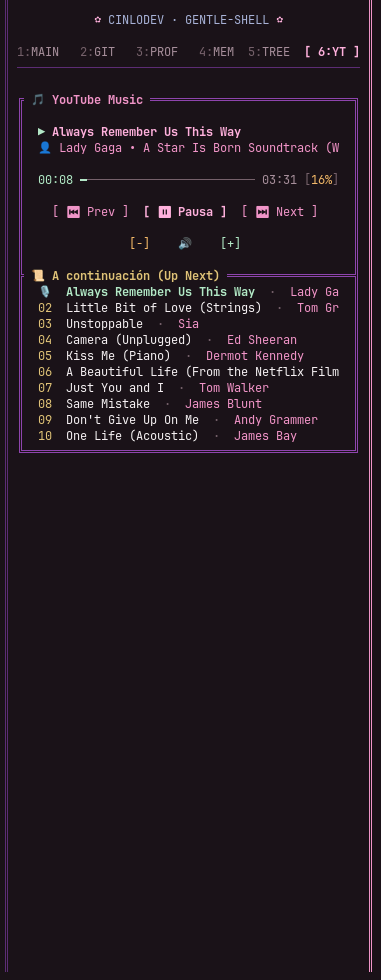
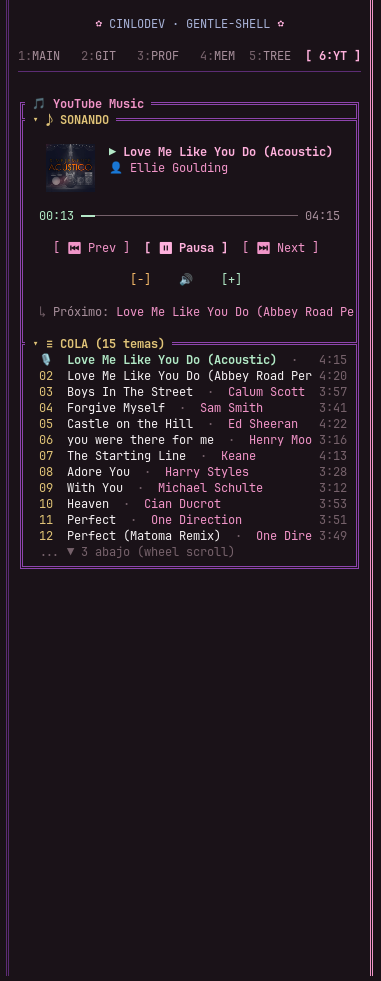
fix(youtube): remove volume badge from scrubber line and update player preview image

diff --git a/src/youtube/youtube-card.ts b/src/youtube/youtube-card.ts
@@ -253,7 +253,7 @@ export class CinlodevYouTubeCard {
 
 			lines.push(boxLine(""));
 
-			// Timeline & Scrubber con tiempos en los extremos y badge de volumen
+			// Timeline & Scrubber con tiempos en los extremos
 			const currentTime = typeof state?.currentTime === "number" && !Number.isNaN(state.currentTime) ? state.currentTime : 0;
 			const duration = typeof state?.duration === "number" && !Number.isNaN(state.duration) ? state.duration : 0;
 			const curM = Math.floor(currentTime / 60);
@@ -261,13 +261,12 @@ export class CinlodevYouTubeCard {
 			const durM = Math.floor(duration / 60);
 			const durS = Math.floor(duration % 60);
 			const timeStart = `  ${mint(`${curM.toString().padStart(2, "0")}:${curS.toString().padStart(2, "0")}`)} `;
-			const timeEnd = ` ${muted(`${durM.toString().padStart(2, "0")}:${durS.toString().padStart(2, "0")}`)}`;
+			const timeEnd = ` ${muted(`${durM.toString().padStart(2, "0")}:${durS.toString().padStart(2, "0")}`)}  `;
 
 			const volume = typeof state?.volume === "number" && !Number.isNaN(state.volume) ? state.volume : 1;
 			const volPct = Math.round(volume * 100);
-			const volBadge = ` ${dim("[")}${yellow(`${volPct}%`)}${dim("]")}  `;
 
-			const fixedTimeLen = calcVisibleWidth(timeStart) + calcVisibleWidth(timeEnd) + calcVisibleWidth(volBadge);
+			const fixedTimeLen = calcVisibleWidth(timeStart) + calcVisibleWidth(timeEnd);
 			const barWidth = Math.max(4, width - 2 - fixedTimeLen);
 
 			const pct = duration > 0 ? Math.max(0, Math.min(1, currentTime / duration)) : 0;
@@ -275,7 +274,7 @@ export class CinlodevYouTubeCard {
 			const empty = Math.max(0, barWidth - filled);
 			const progressBar = `${mint("━".repeat(filled))}${dim("─".repeat(empty))}`;
 
-			lines.push(boxLine(`${timeStart}${progressBar}${timeEnd}${volBadge}`));
+			lines.push(boxLine(`${timeStart}${progressBar}${timeEnd}`));
 			lines.push(boxLine(""));
 
 			// Controles de Reproducción Centrados
